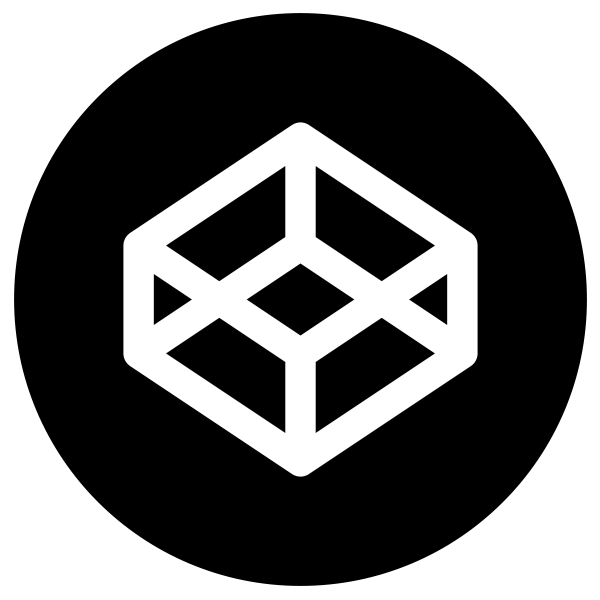
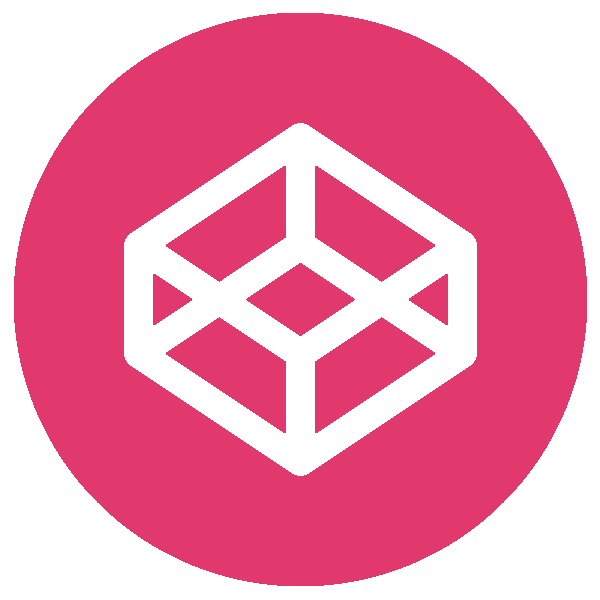
added bold to email at contact

diff --git a/index.html b/index.html
@@ -216,7 +216,7 @@
             <!--       contact div -->
             <div id="contact">
                 <h2> contact </h2>
-                <p> Thanks for checking out my page! Make sure to check out my resume and if you would like to contact me, you can reach me by contacting me via my social media or emailing me directly at <span id="bold"> rosa.swaby@nyu.edu</span>. Bye!</p>
+                <p> Thanks for checking out my page! Make sure to check out my resume and if you would like to contact me, you can reach me by contacting me via my social media or emailing me directly at <span id = "email_style"> rosa.swaby@nyu.edu</span>. Bye!</p>
 
                 <ul class="social_media_icons">
                     <li>

diff --git a/css/style.css b/css/style.css
@@ -703,7 +703,10 @@ ul.navbar li.icon {
 }
 /* end of projects styling */
 /* contact styling */
-
+#email_style{
+  font-weight:bold;
+  color:#e1386c;
+}
 #contact {
     /*   box-shadow: 0px 4px 4px gray; */
     width: 100%;
